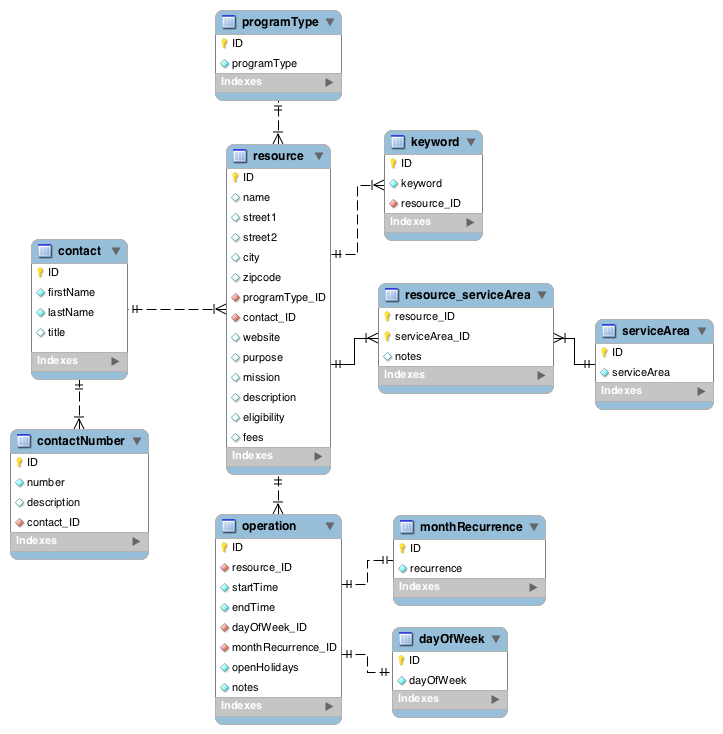
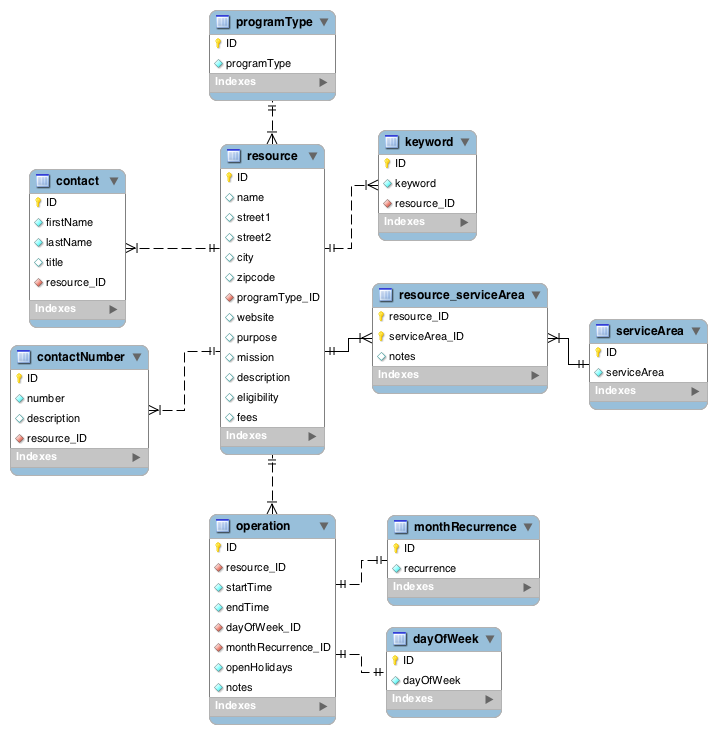
Modified TABLES contact and contactNumber

diff --git a/MySQL Database/PHP Functions/insertFunctions.php b/MySQL Database/PHP Functions/insertFunctions.php
@@ -62,11 +62,11 @@ function insertServiceArea ($servicearea)
   }
 }
 
-function insertContact ($firstname, $lastname, $title)
+function insertContact ($firstname, $lastname, $title, $resource_id)
 {
   include "connectdb.php";
 
-  $sql = "INSERT INTO contact (firstName, lastName, title) VALUES ('".$firstName."','".$lastName."','".$title."')";
+  $sql = "INSERT INTO contact (firstName, lastName, title, resource_ID) VALUES ('".$firstName."','".$lastName."','".$title."','".$resource_id."')";
 
   $result = mysql_query($sql);
 
@@ -93,29 +93,27 @@ function insertContact ($firstname, $lastname, $title)
   }
 }
 
-function insertContactNumber ($number, $description, $contact_id)
+function insertContactNumber ($number, $description, $resource_id)
 {
   include "connectdb.php";
 
-  $sql = "INSERT INTO contactNumber (number, description, contact_ID) VALUES ('".$number."','".$description."','".$contact_id."')";
+  $sql = "INSERT INTO contactNumber (number, description, resource_ID) VALUES ('".$number."','".$description."','".$resource_id."')";
 
   $result = mysql_query($sql);
 
   //GET CONTACT
-  $getContactSql = "SELECT * FROM contact WHERE ID = $contact_id";
-  $contactList = mysql_query($getContactSql);
+  $getResourceSql = "SELECT * FROM resource WHERE ID = $resource_id";
+  $resourceList = mysql_query($getResourceSql);
 
-  while($contact = mysql_fetch_array($contactList)) {
-    $firstname = $contact['firstName'];
-    $lastname = $contact['lastName'];
-    $title = $contact['title'];
+  while($resource = mysql_fetch_array($resourceList)) {
+    $name = $resource['name'];
   }
 
   if (!$result)
   {
     if (mysql_errno() == 1062)
     {
-      die('ERROR: Duplicate Contact Number entry for ' . $firstname . ' ' . $lastname . ' (' . $title . ')');
+      die('ERROR: Duplicate Contact Number entry for Resource: ' . $name);
     }
     else
     {

diff --git a/MySQL Database/PHP Functions/updateFunctions.php b/MySQL Database/PHP Functions/updateFunctions.php
@@ -27,10 +27,10 @@ function updateContact($id, $firstname, $lastname, $title){
     mysql_close($link);
 }
 
-function updateContactNumber($id, $number, $description, $contact_id){
+function updateContactNumber($id, $number, $description, $resource_id){
     include "connectdb.php";
 
-    $sql = "UPDATE contactNumber SET number='".$number."', SET description='".$description."', SET contact_ID='".$contact_id."' WHERE ID='".$id."'";
+    $sql = "UPDATE contactNumber SET number='".$number."', SET description='".$description."', SET resource_ID='".$resource_id."' WHERE ID='".$id."'";
     $result = mysql_query($sql);
 
     mysql_close($link);
